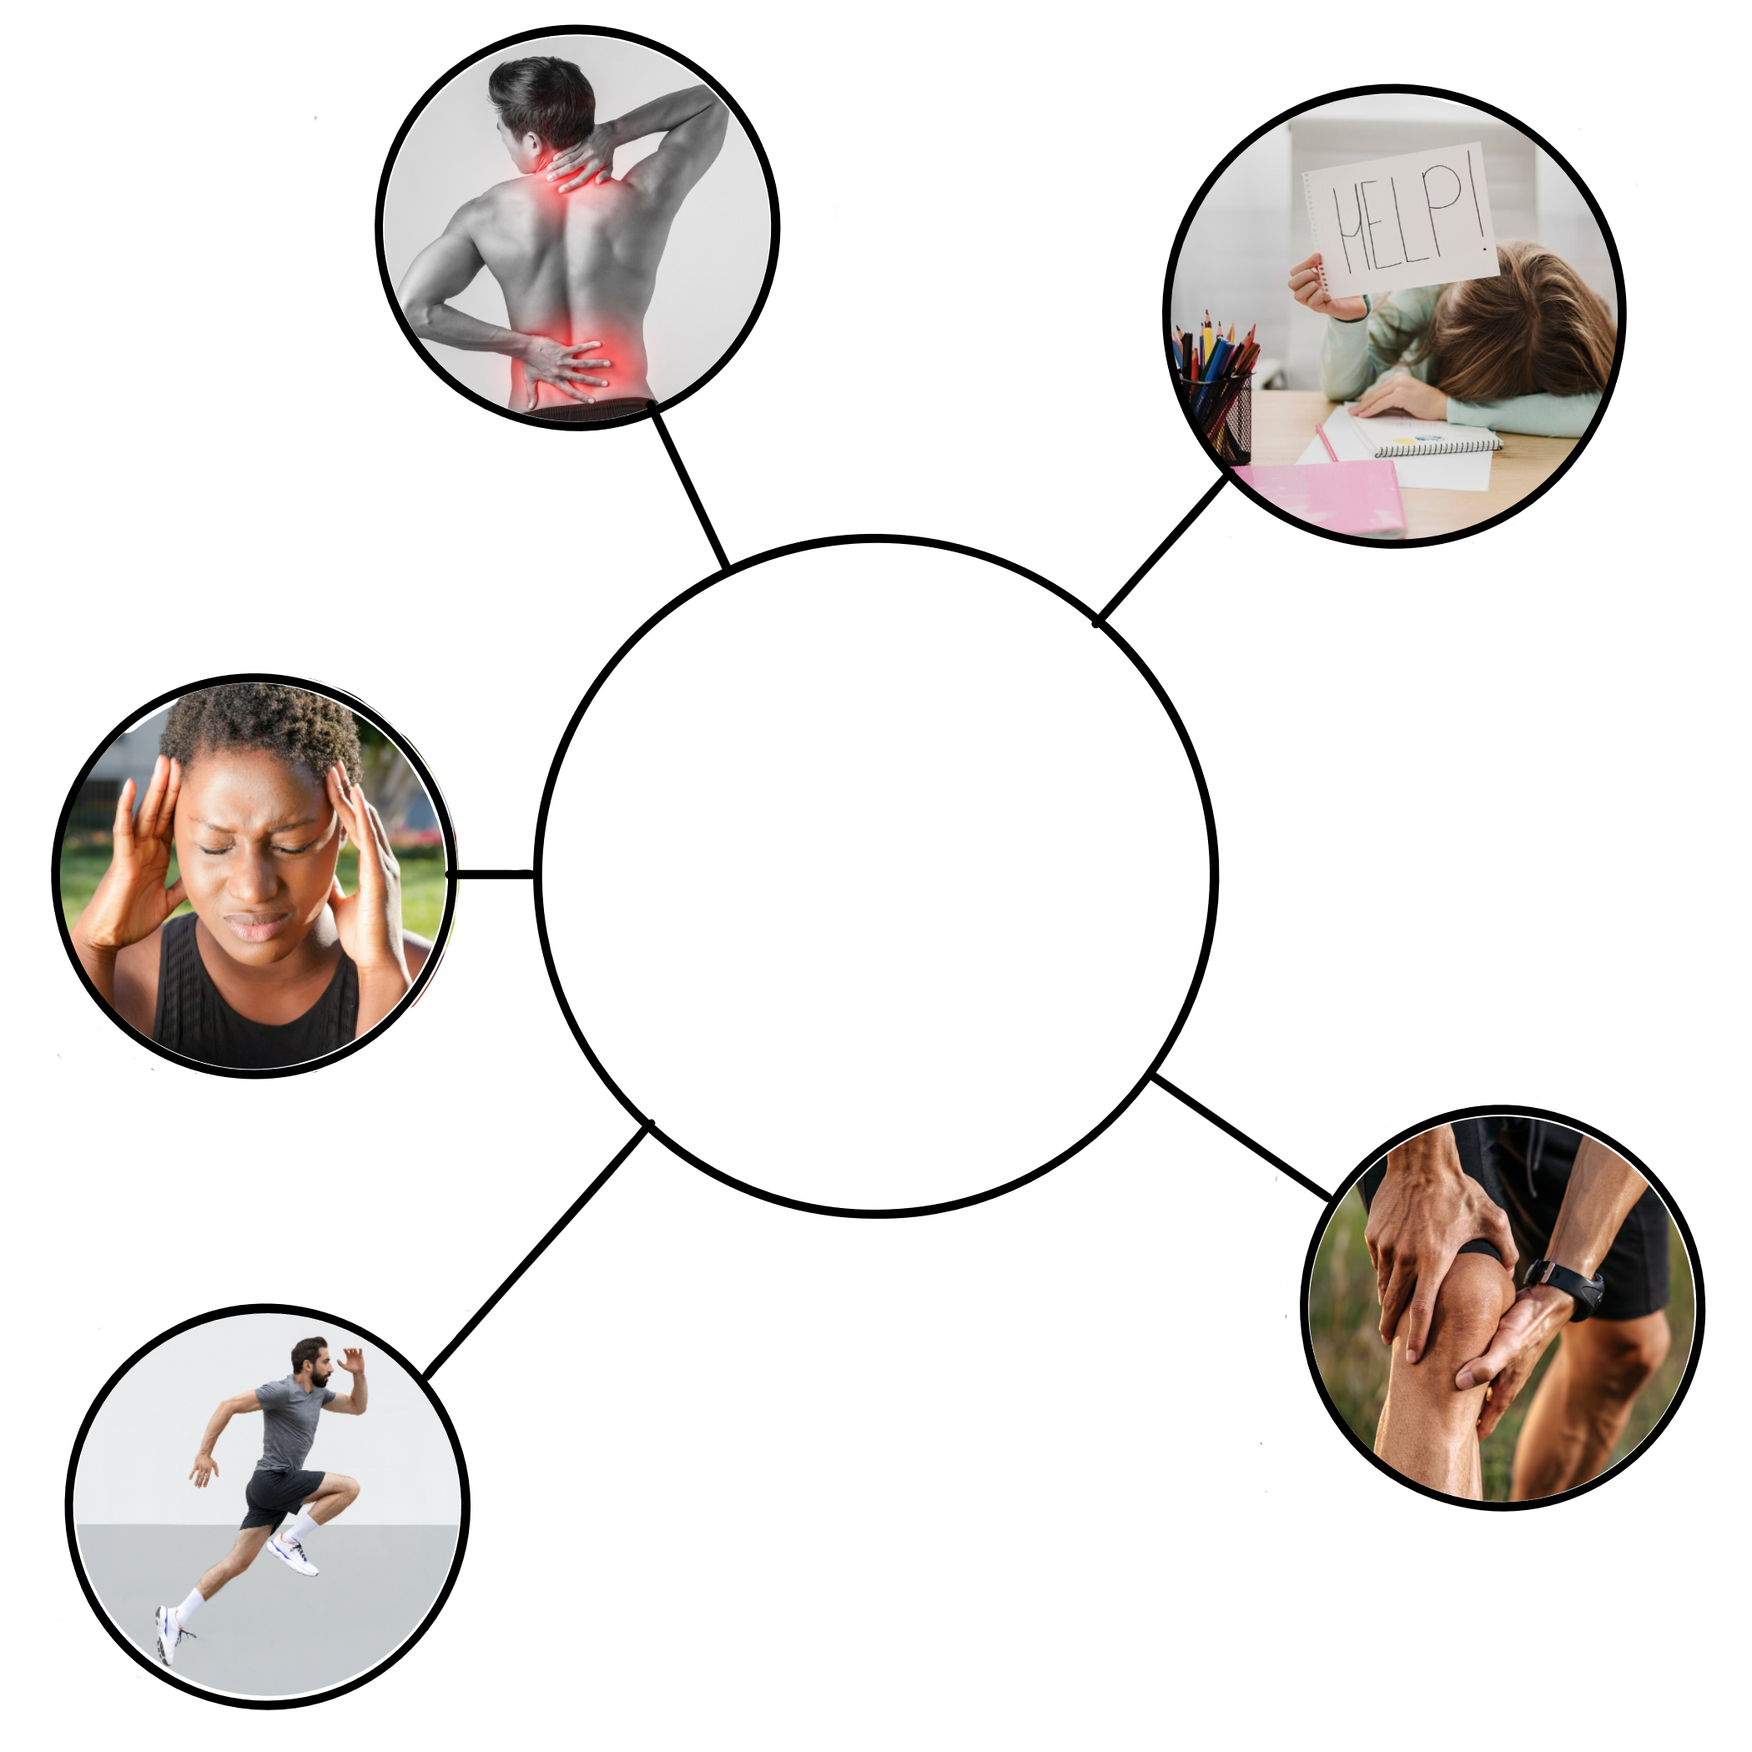
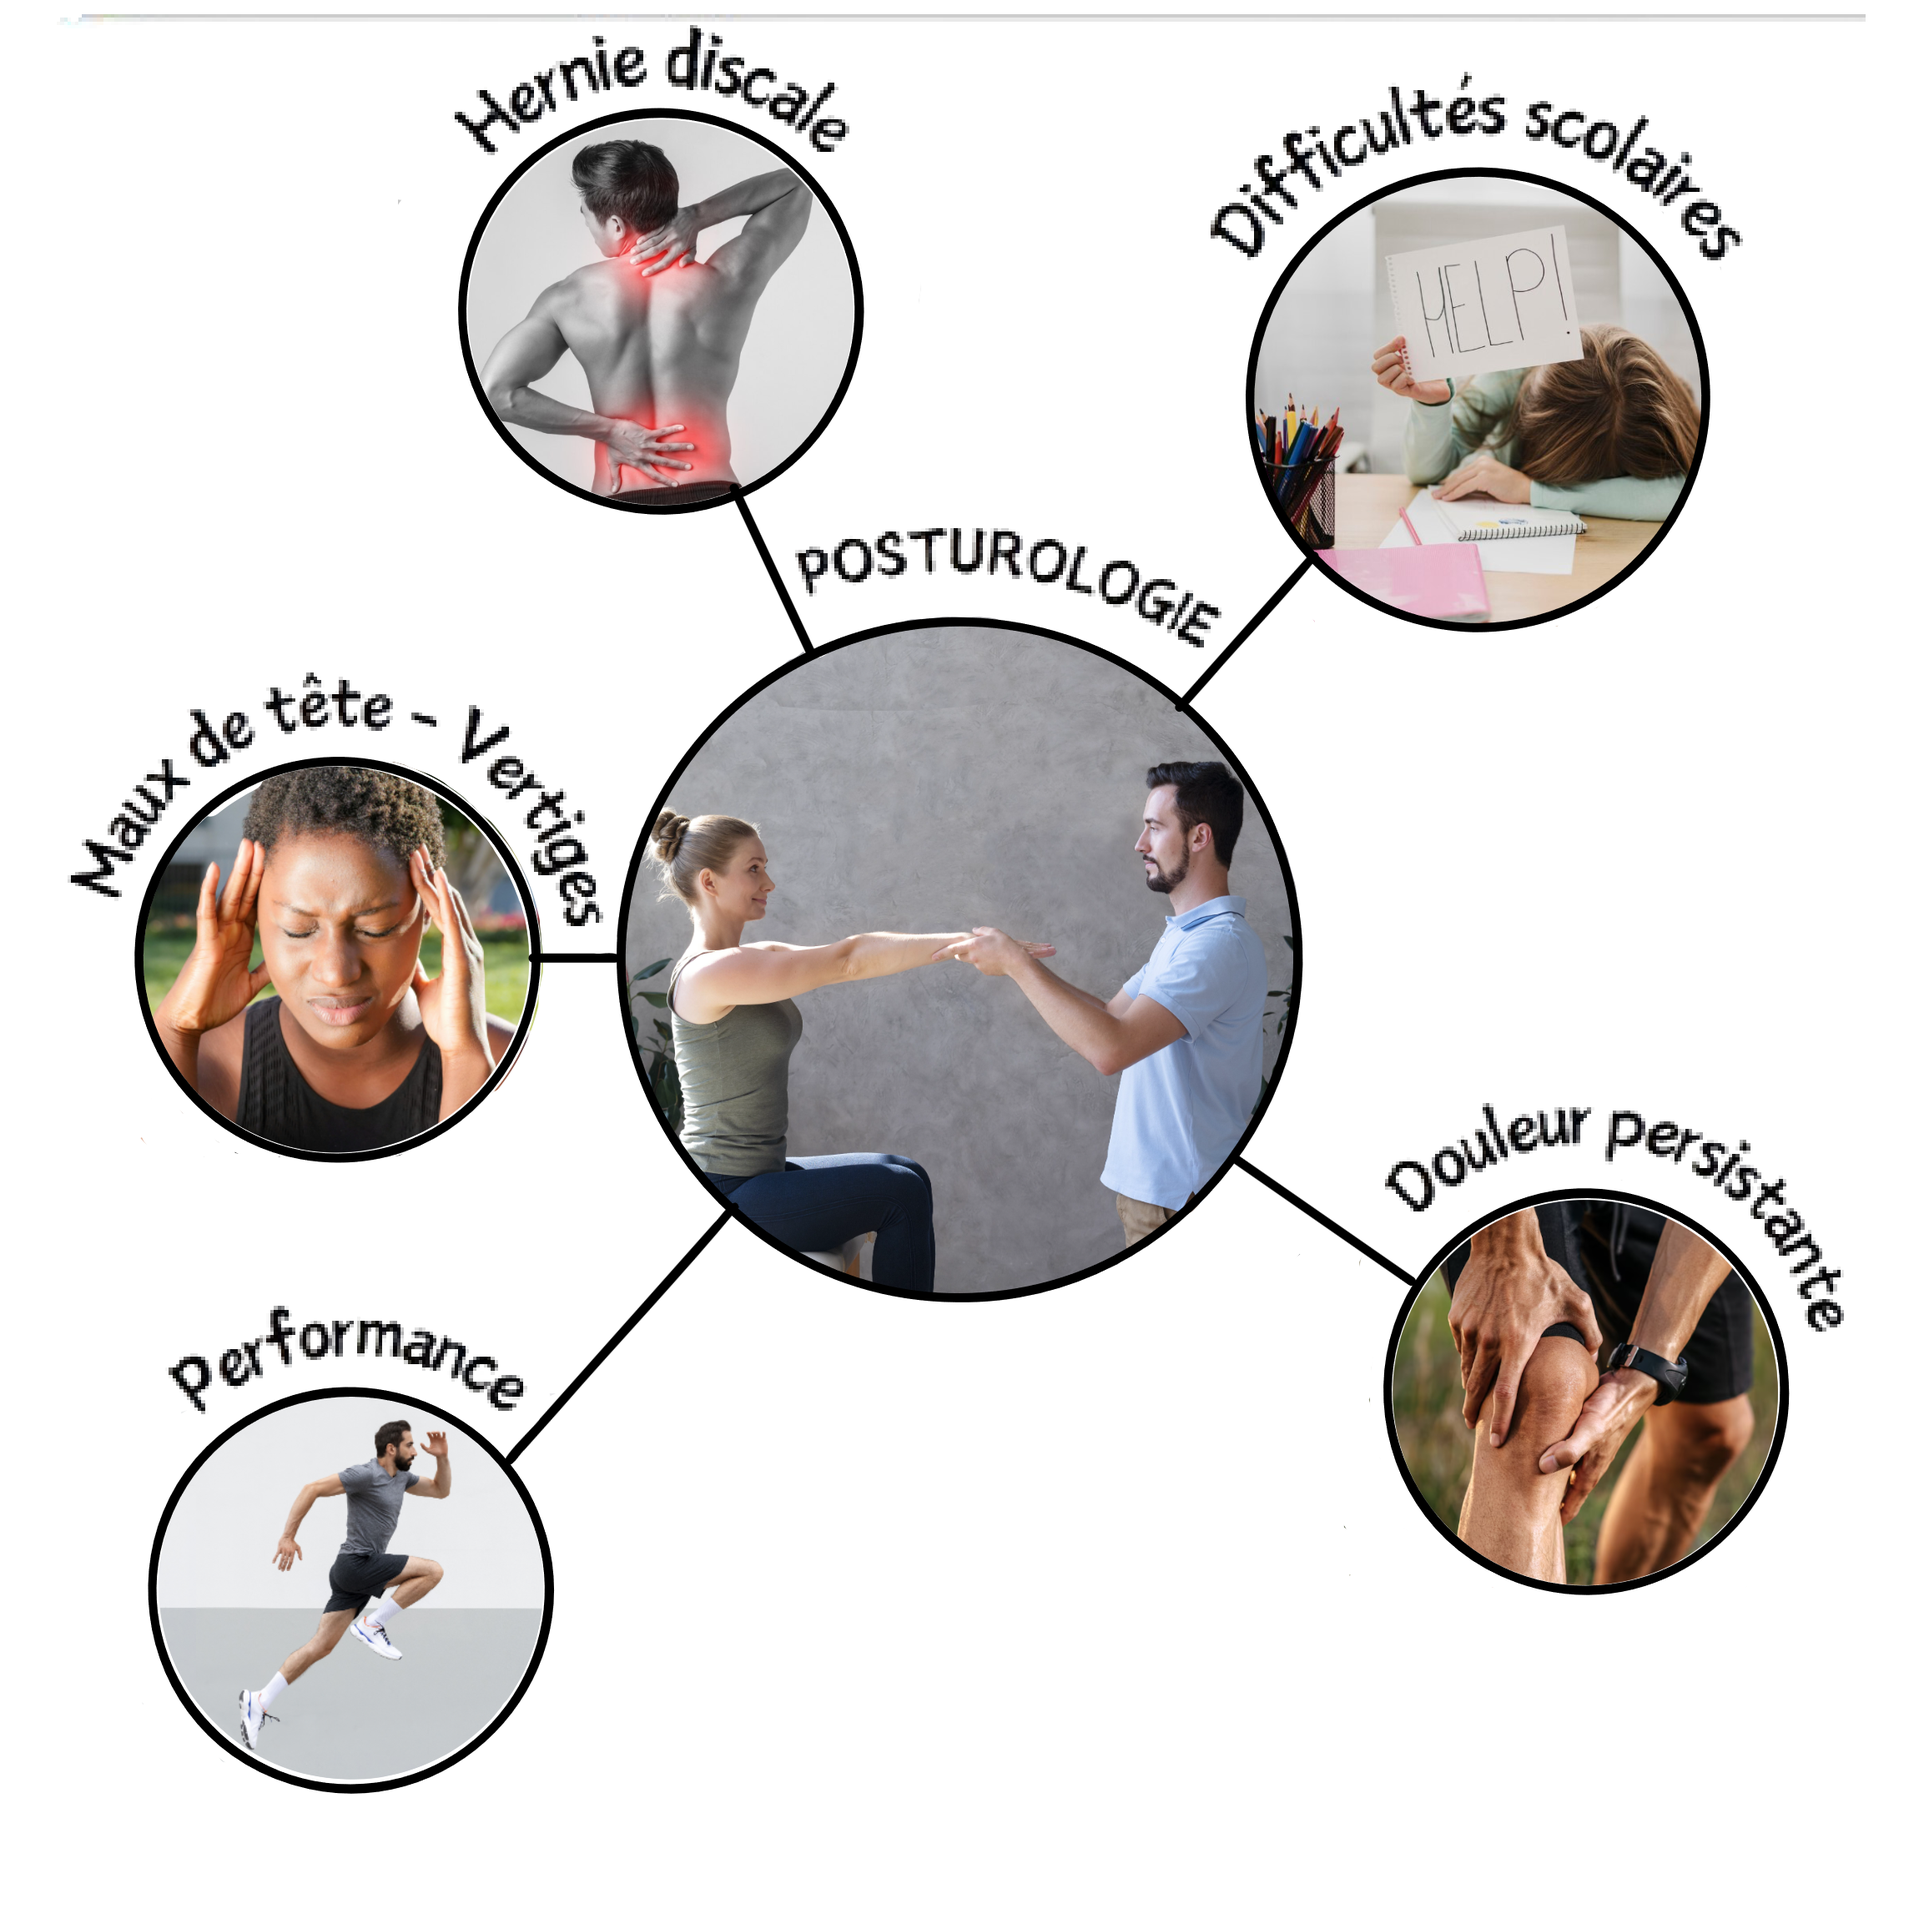
modification du mindmap avec ajout de la photo posturologie et des titres

diff --git a/public/css/style_article.css b/public/css/style_article.css
@@ -53,7 +53,7 @@ border-radius: 5rem;
     animation: appear linear;
     animation-timeline: view();
     animation-range: entry 0% cover 40%;
-    text-align: left;
+    text-align: justify;
     padding: 1rem 2rem;
   }
 }
